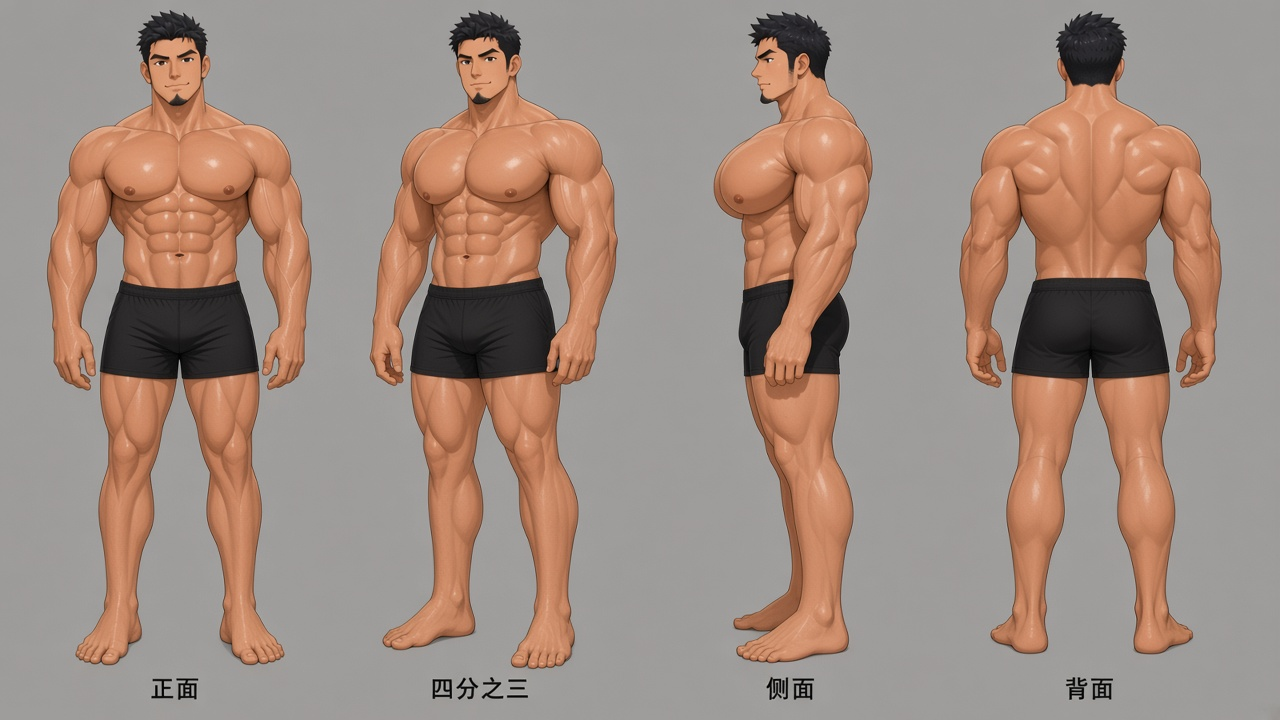
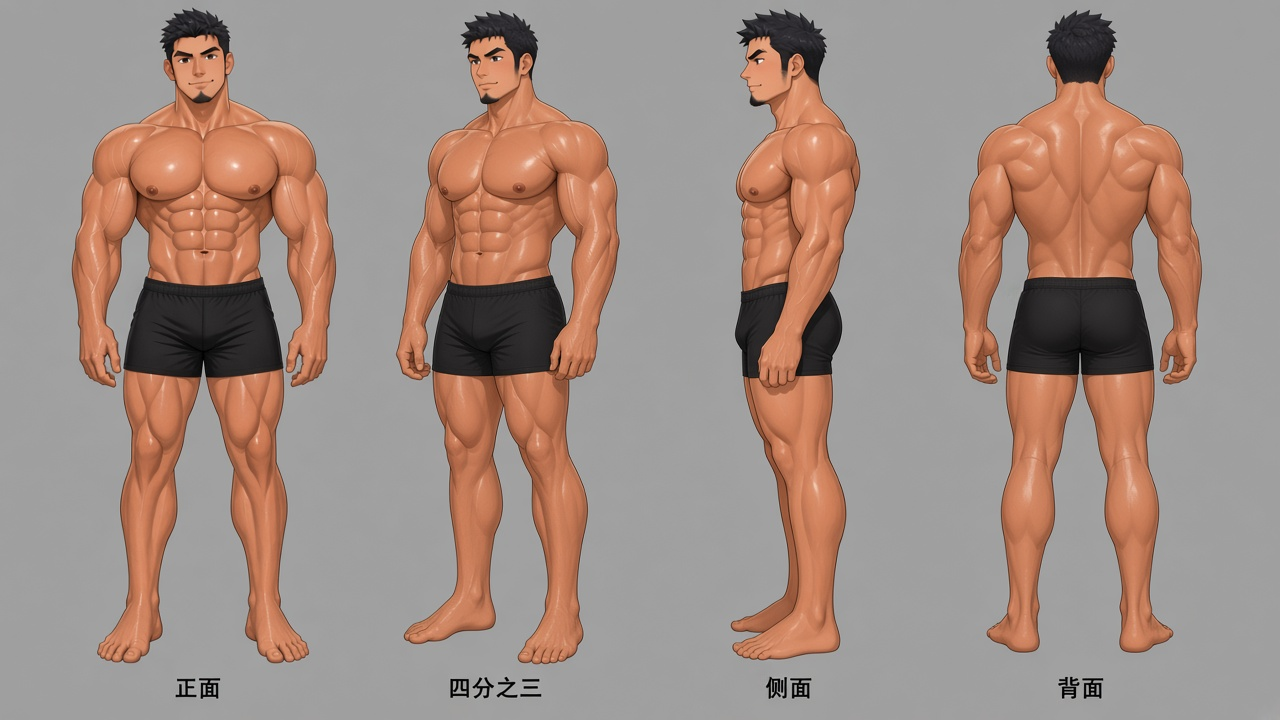
fix: 重画侧面胸肌轮廓
侧面改成整块胸肌的厚度，下沿收回腹部，不再鼓成单独的圆球。

diff --git a/漫画分镜/多角度设定/设定说明.md b/漫画分镜/多角度设定/设定说明.md
@@ -5,7 +5,7 @@
 ## 识别点
 
 - 脸：短碎发。眼往侧看，深棕色。下颌收尖，下巴有一小撮山羊胡，颊侧淡胡茬。
-- 体：高，腿长。上胸饱满，胸位偏高，下胸收紧不坠，侧面从锁骨下方向前鼓，肩宽，腹肌清楚。
+- 体：高，腿长。上胸饱满，胸位偏高，下胸收紧。侧面是一整块胸肌的厚度，轮廓收回腹部，不鼓成单独的圆球。肩宽，腹肌清楚。
 - 肤色：暖小麦色。
 
 ## 图
